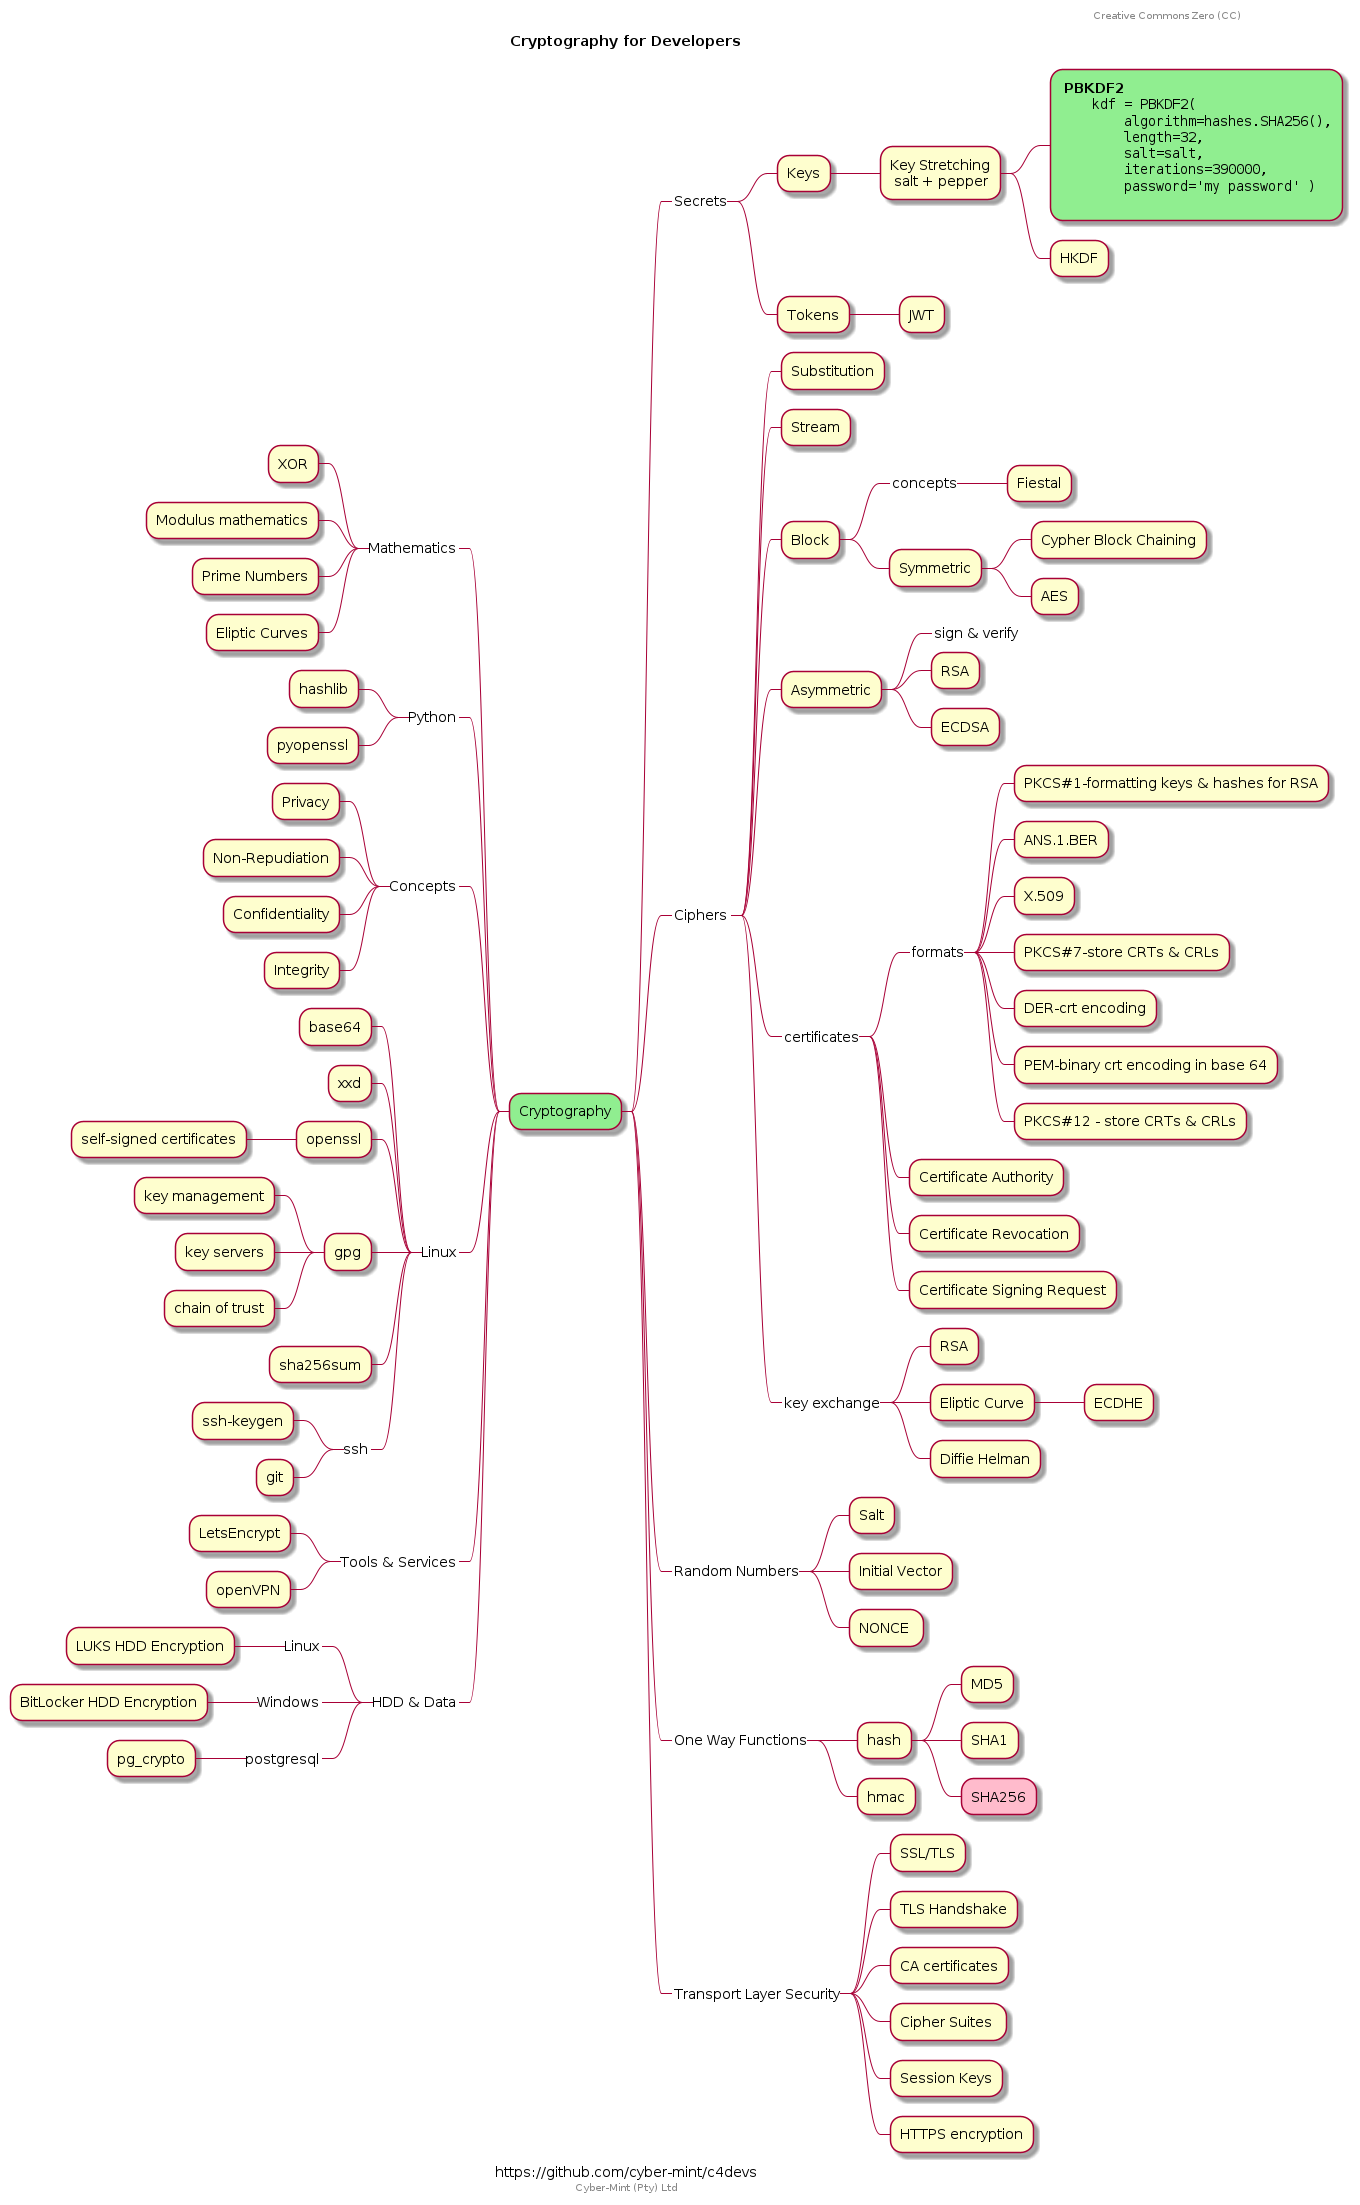
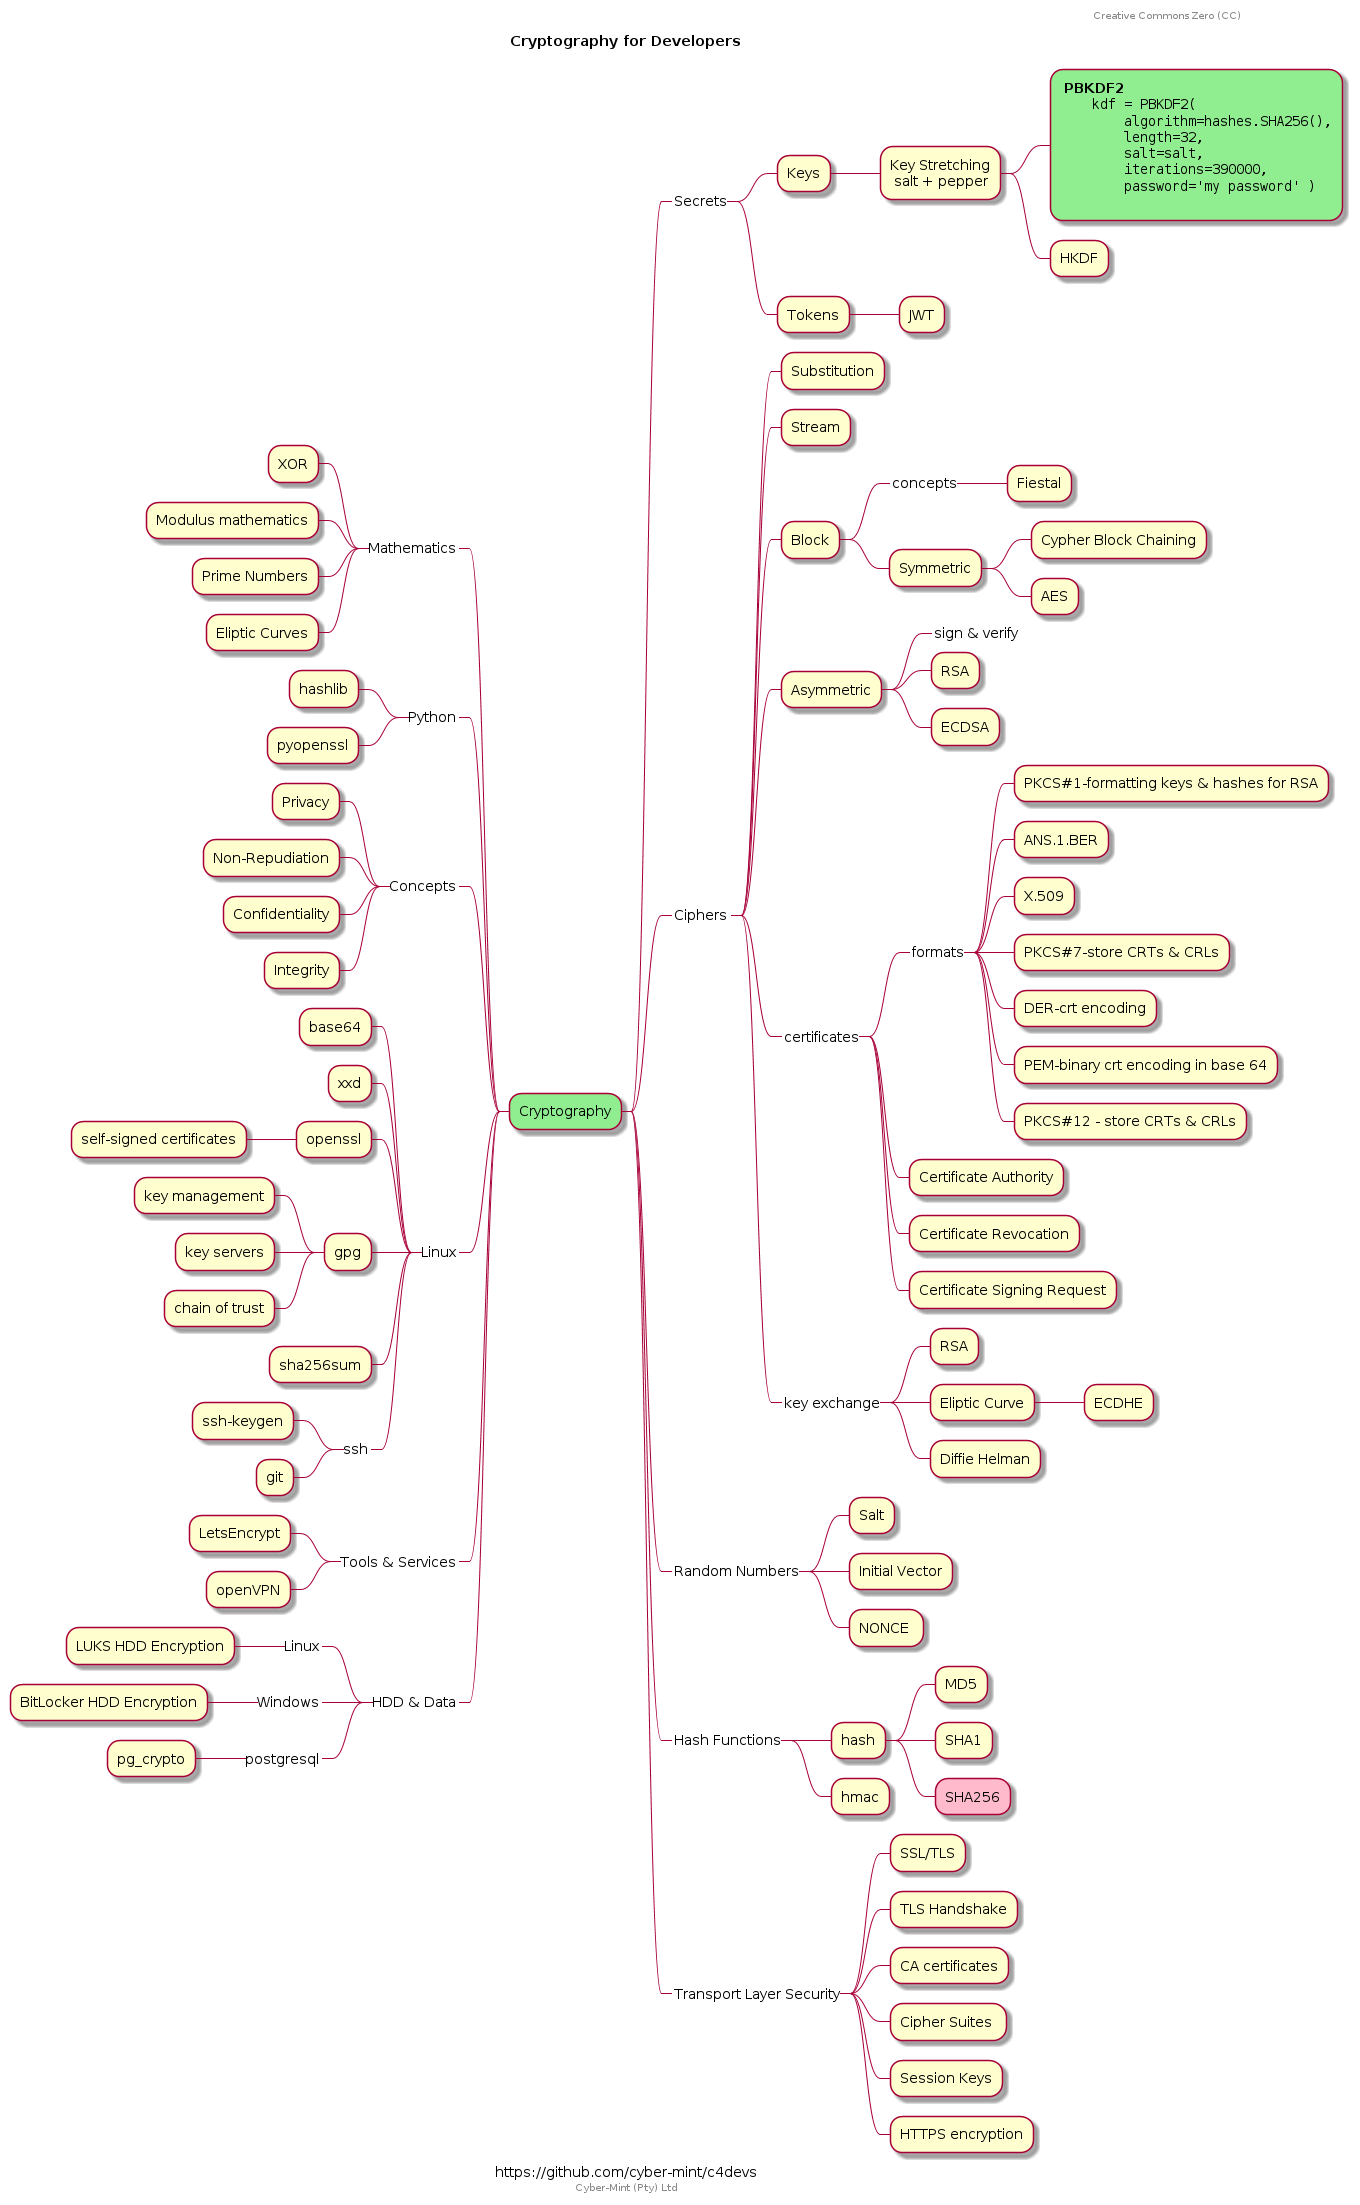
Lesson plan initial commit

Changed region(s): [[0.5868, 0.7401, 0.7721, 0.8327]]

diff --git a/lesson-plan.md b/lesson-plan.md
@@ -1,0 +1,25 @@
+# Lesson Plan
+
+1. Draw out the Cryptography mind map on white board & discuss as we expand it.
+2. Order as follows:
+
+    * Concepts (Discuss)
+    * Mathematics (Worked examples)
+
+      - XOR Table
+      - Modulus Mathematics
+      - mention the others
+
+    * Random Numbers (Discuss & worked CLI examples)
+    * Secrets, Keys & Tokens ( Discuss & show jwt.io)
+      
+        - key size
+        - key spreading (KDFs)
+        - 
+
+    * Hash Functions (Discuss & worked CLI examples)
+
+        - `md5sum` & `sha256sum`
+        - `hmac` & `export HMAC_KEY=$(openssl rand -hex 20)`
+
+    * 
